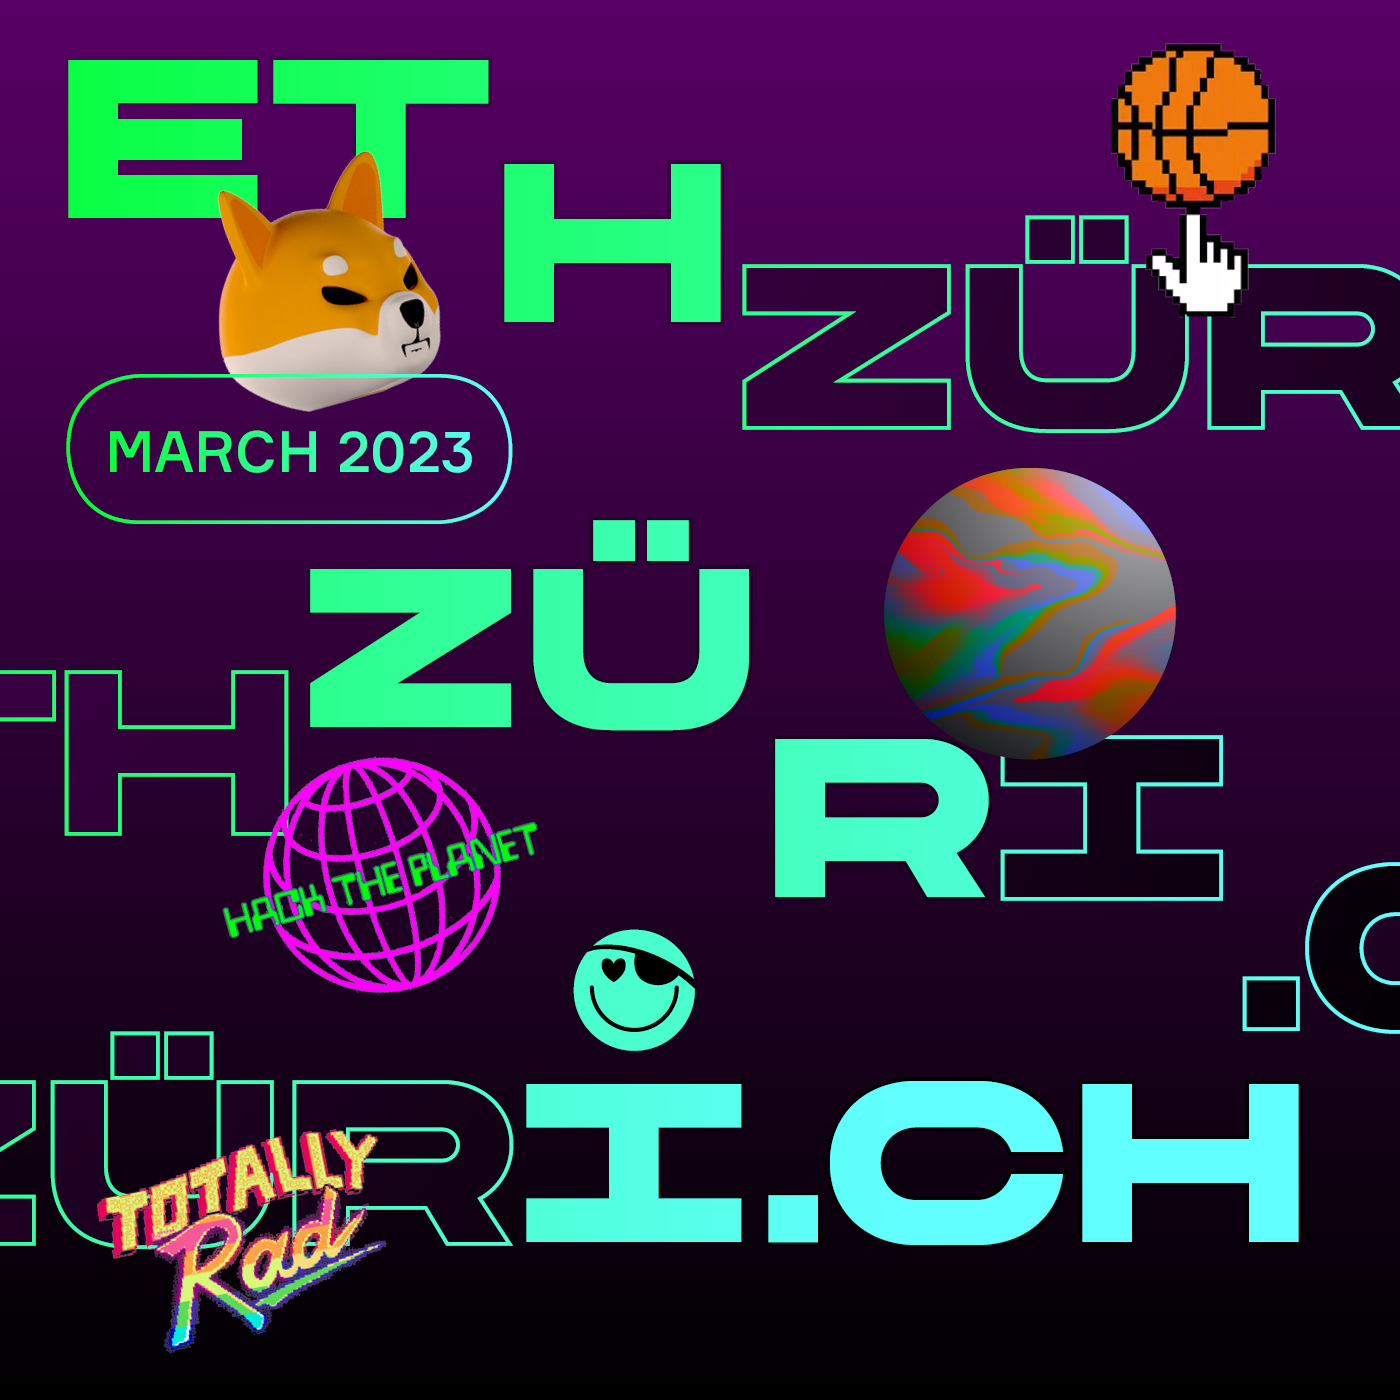
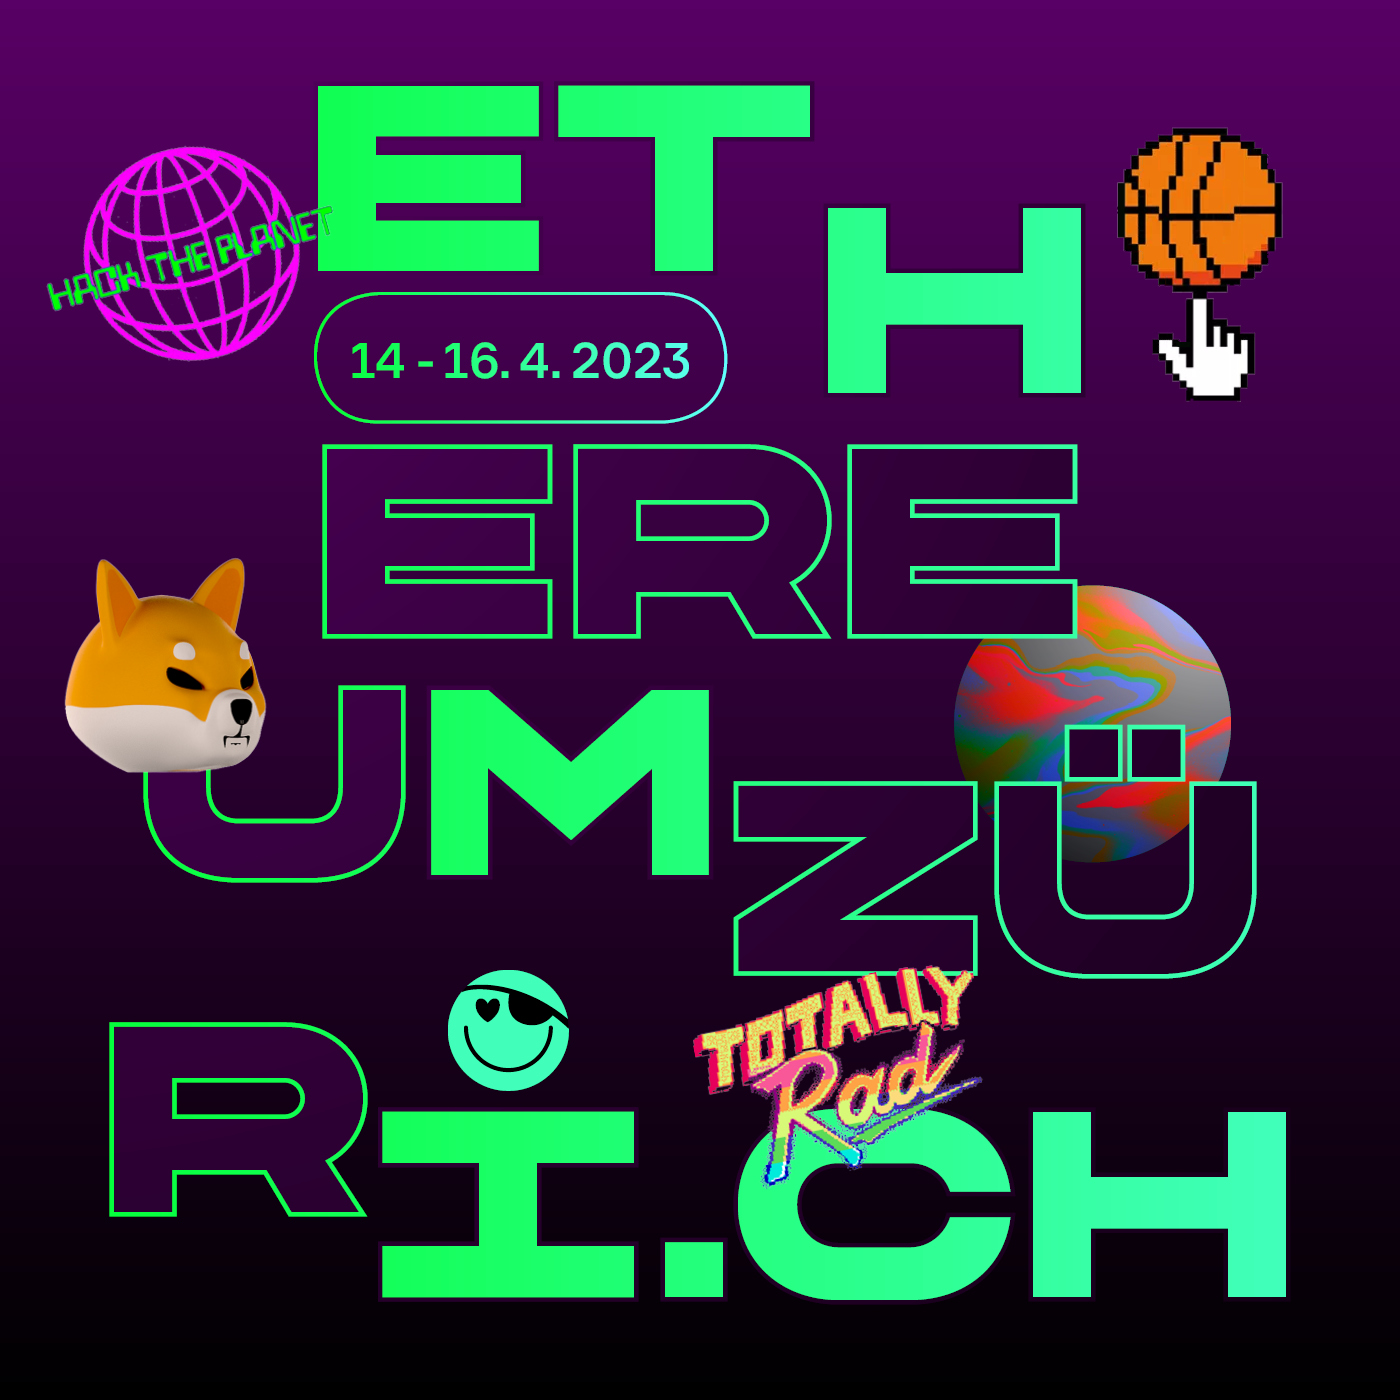
change here image

diff --git a/src/components/Hero.vue b/src/components/Hero.vue
@@ -21,16 +21,16 @@
           target="_blank"
           class="hero__button-link"
         >
-          <button class="hero__button">sponsor ETHZüri.ch</button>
+          <button class="hero__button">sponsor ETHEREUMZüri.ch</button>
         </a>
       </div>
       <a
-          href="mailto:contact@ethzuri.ch"
+          href="mailto:contact@ethereumzuri.ch"
           class="hero__button-link"
         >
           <button class="hero__button hero__button--email-contact">
             <span class="hero__button--email-contact-text">
-              contact@ethzuri.ch
+              contact@ethereumzuri.ch
             </span>
           </button>
         </a>
@@ -49,7 +49,7 @@ const ethZurichImgMobile = ref(
   new ImageFile({
     url: '/ETH_Zu_header-mobile.jpg',
     id: 'eth-zurich-mobile',
-    lastUpdated: new Date('1990').getTime()
+    lastUpdated: new Date('1991').getTime()
   })
 )
 </script>
